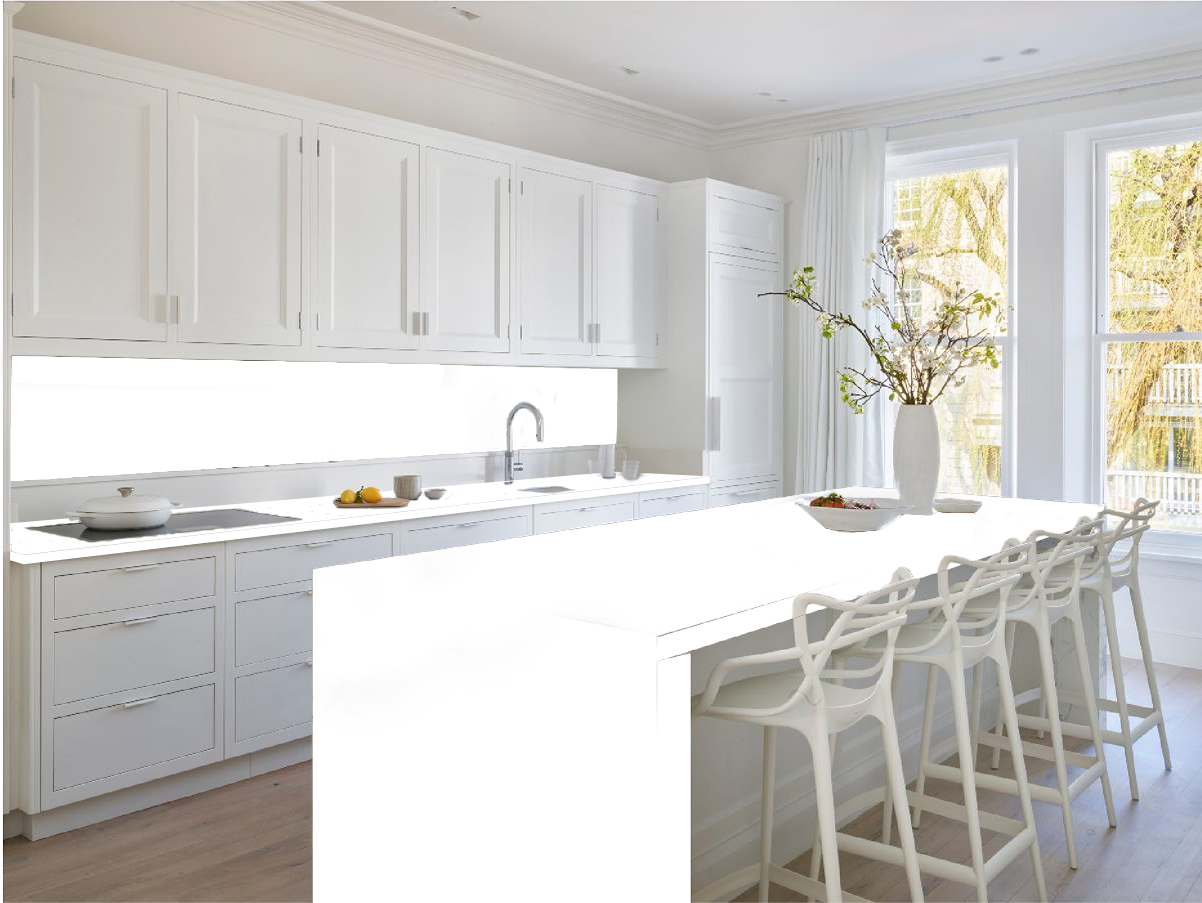
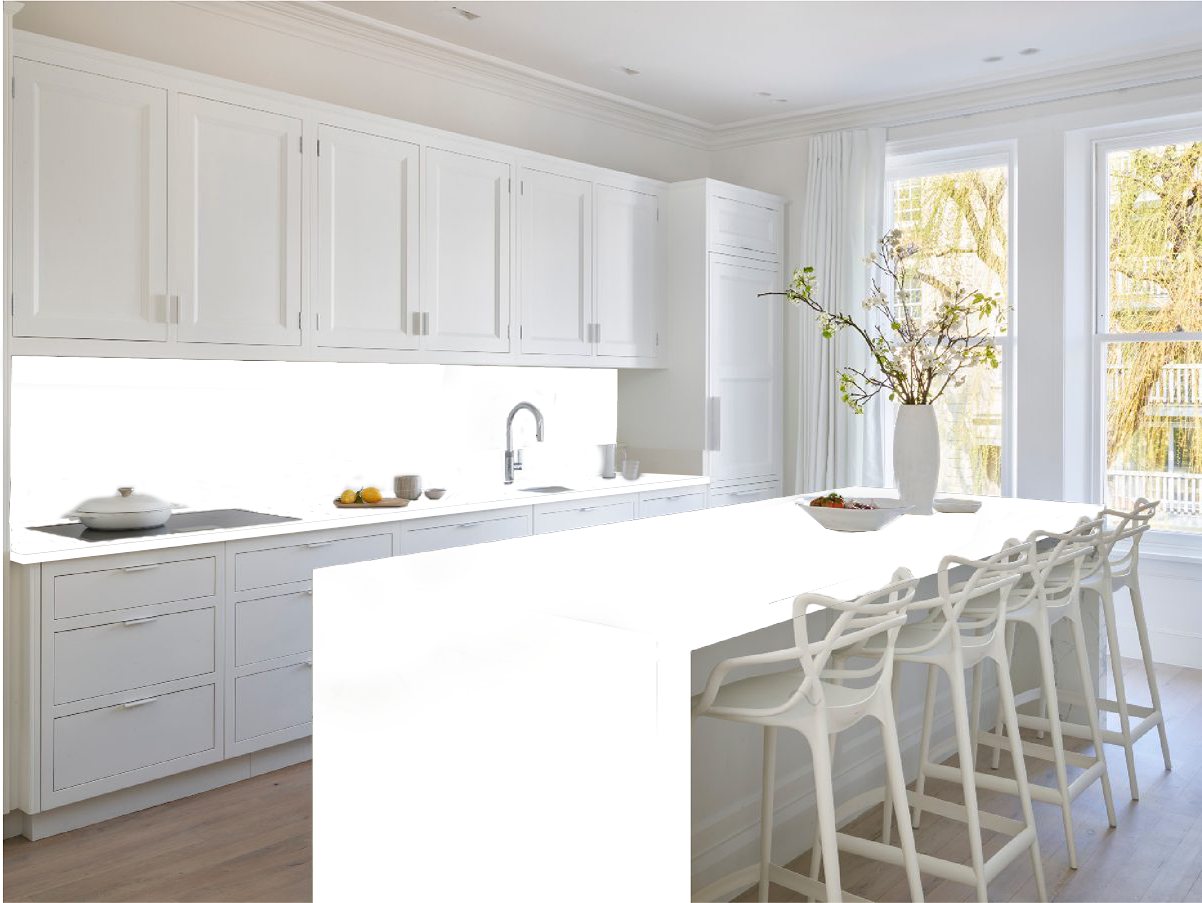
kitchen redesign

Changed region(s): [[0.0, 0.4961, 0.5233, 0.5891]]

diff --git a/src/pages/RoomDesignPage.tsx b/src/pages/RoomDesignPage.tsx
@@ -129,27 +129,25 @@ export default function RoomDesignPage() {
         countertop: "Countertop",
     };
 
-    const islandPaths = [
-        {
-            key: "islandTop",
-            d: "M654 637.5L311.5 569L853.5 486L1101.5 504.5L654 637.5Z",
-        },
-        {
-            key: "baseCabinet",
-            d: "M654.75 638L310.5 569L305.75 903H654.75V638Z",
-        },
-        {
-            key: "islandFront",
-            d: "M1101.5 504L655 637.5V661.5L1101.5 519.5V504Z",
-        },
-        {
-            key: "islandLeg",
-            d: "M688.75 651.5L655.75 660.401V902.5H688.75V651.5Z",
-        },
-    ];
+    // const islandPaths = [
 
-    const backsplashPath = "M622 452V361.5L3.5 347V486L622 452Z";
+    // const islandPaths =
+    //     "M654 637.5L311.5 569L853.5 486L1101.5 504.5L654 637.5Z " +
+    //     "M654.75 638L310.5 569L305.75 903H654.75V638Z " +
+    //     "M1101.5 504L655 637.5V661.5L1101.5 519.5V504Z " +
+    //     "M688.75 651.5L655.75 660.401V902.5H688.75V651.5Z";
 
+    const islandPaths =
+        // top
+        "M654 637.5L311.5 569L853.5 486L1101.5 504.5L654 637.5Z " +
+        // front cabinet (extend right by 1px)
+        "M654.75 638L310.5 569L305.75 903H656V638Z " +
+        // side face (move left by 1px)
+        "M1101.5 504L654 637.5V661.5L1101.5 519.5V504Z " +
+        // leg
+        "M688.75 651.5L655.75 660.401V902.5H688.75V651.5Z";
+
+    const backsplashPath = "M610 13L3 0L0 171.5L610 113V13Z";
     const countertopPath = "M605 0L0 57.5V95L12.5 101.5L705.5 20V7.5L605 0Z";
 
     return (
@@ -298,8 +296,8 @@ export default function RoomDesignPage() {
                                     <pattern
                                         id='backsplashPattern'
                                         patternUnits='userSpaceOnUse'
-                                        width='700'
-                                        height='703'
+                                        width='610'
+                                        height='172'
                                     >
                                         <image
                                             href={
@@ -309,10 +307,9 @@ export default function RoomDesignPage() {
                                             crossOrigin='anonymous'
                                             x='0'
                                             y='0'
-                                            width='700'
-                                            height='703'
+                                            width='610'
+                                            height='172'
                                             preserveAspectRatio='xMidYMid slice'
-                                            transform='rotate(-15 500 451.5)'
                                         />
                                     </pattern>
 
@@ -341,7 +338,7 @@ export default function RoomDesignPage() {
 
                                 {/* MARBLE LAYERS */}
                                 <g>
-                                    {islandPaths.map(({ key, d }) => (
+                                    {/* {islandPaths.map(({ key, d }) => (
                                         <path
                                             key={key}
                                             d={d}
@@ -355,10 +352,24 @@ export default function RoomDesignPage() {
                                                 opacity: 0.9,
                                             }}
                                         />
-                                    ))}
+                                    ))} */}
+
+                                    <path
+                                        d={islandPaths}
+                                        fill={
+                                            selectedMaterials.island
+                                                ? "url(#islandMarblePattern)"
+                                                : "#F4F4F5"
+                                        }
+                                        style={{
+                                            mixBlendMode: "multiply",
+                                            opacity: 0.9,
+                                        }}
+                                    />
 
                                     <path
                                         d={backsplashPath}
+                                        transform='translate(8 350)'
                                         fill={
                                             selectedMaterials.backsplash
                                                 ? "url(#backsplashPattern)"
@@ -402,7 +413,7 @@ export default function RoomDesignPage() {
                                     fill='transparent'
                                     style={{ cursor: "pointer" }}
                                 >
-                                    {islandPaths.map(({ key, d }) => (
+                                    {/* {islandPaths.map(({ key, d }) => (
                                         <path
                                             key={`hit-${key}`}
                                             d={d}
@@ -411,10 +422,19 @@ export default function RoomDesignPage() {
                                             }
                                             className='hover:fill-black/5 transition-colors duration-200'
                                         />
-                                    ))}
+                                    ))} */}
+
+                                    <path
+                                        d={islandPaths}
+                                        onClick={() =>
+                                            handleSurfaceClick("island")
+                                        }
+                                        className='hover:fill-black/5 transition-colors duration-200'
+                                    />
 
                                     <path
                                         d={backsplashPath}
+                                        transform='translate(0 347)'
                                         onClick={() =>
                                             handleSurfaceClick("backsplash")
                                         }
